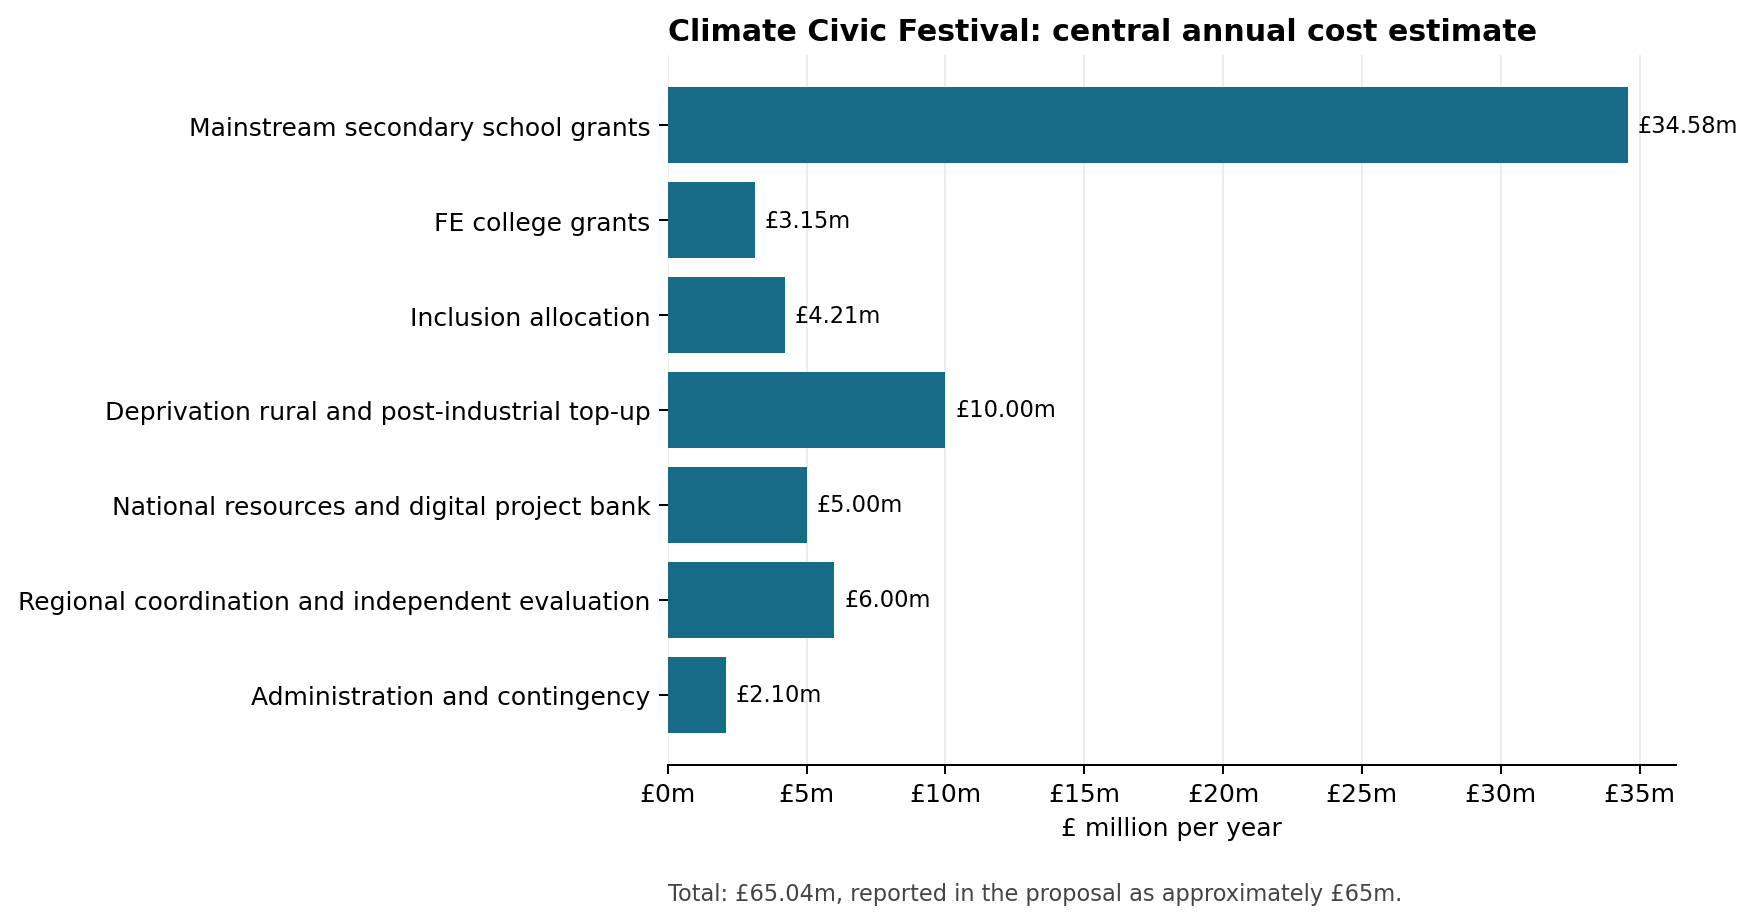
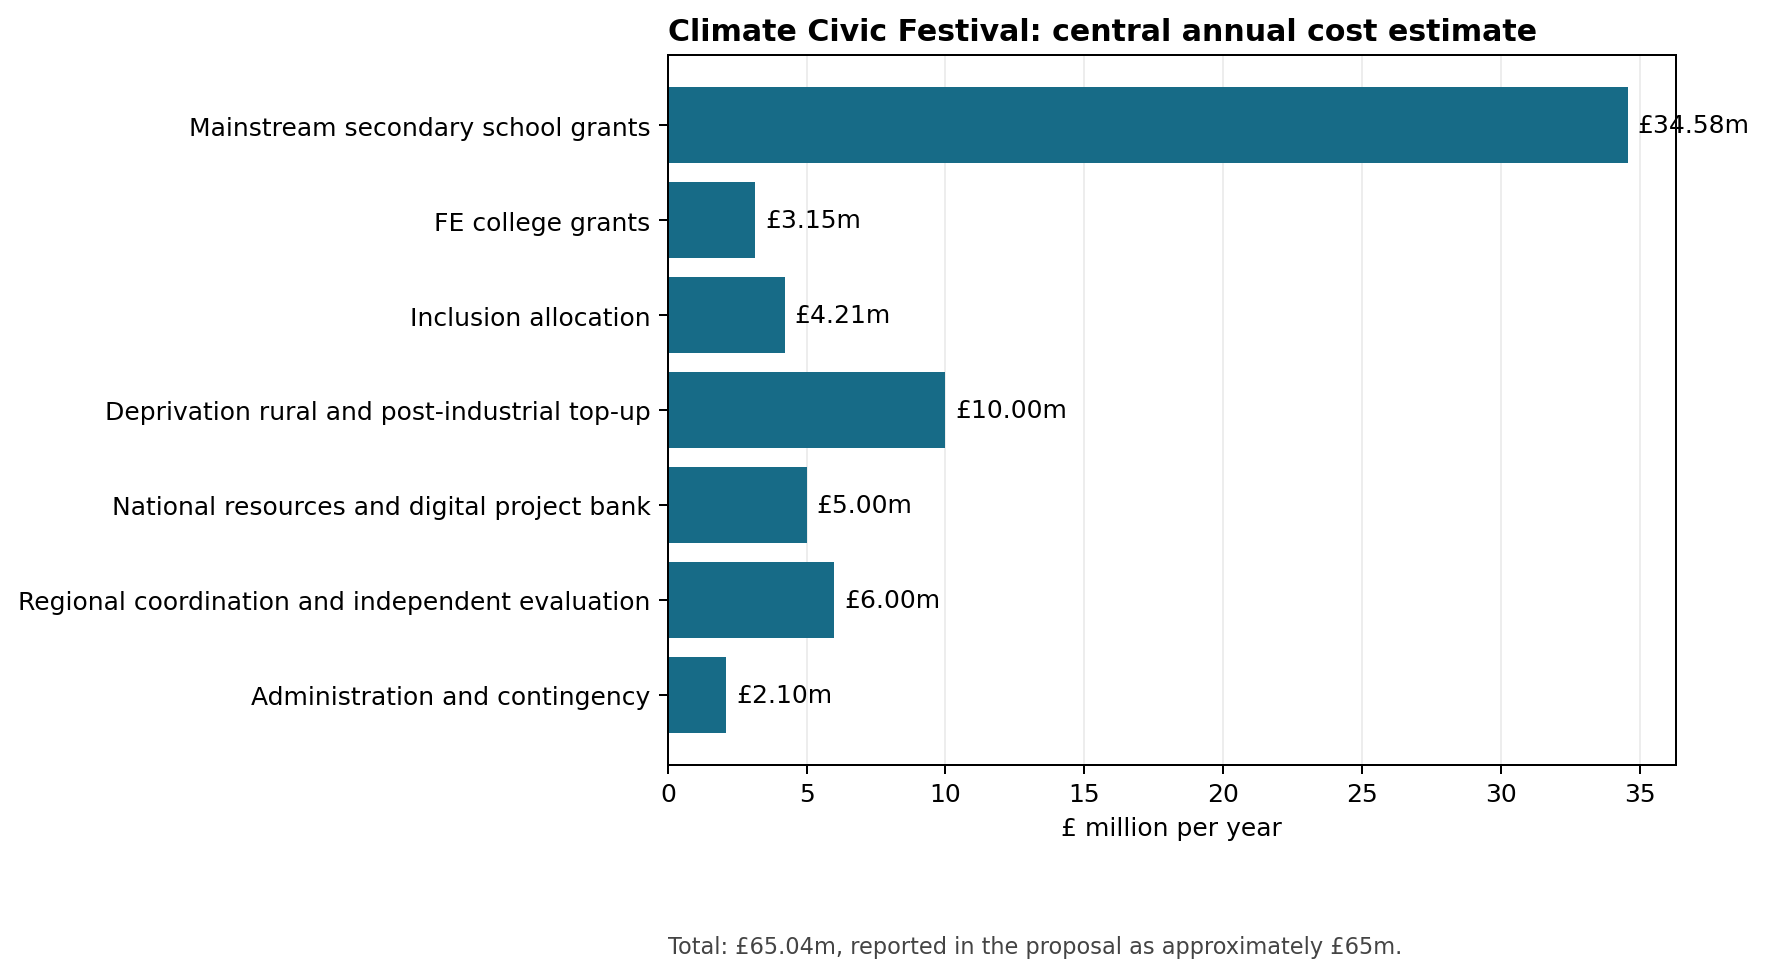
Clarify project summary and simplify costing script

diff --git a/analysis/reproduce_costing.py b/analysis/reproduce_costing.py
@@ -1,88 +1,76 @@
-#!/usr/bin/env python3
-"""Reproduce headline costing figures and generate the cost chart.
-
-Run from any location with:
-    python analysis/reproduce_costing.py
-"""
-
-from __future__ import annotations
-
 import csv
-from pathlib import Path
+import os
+
+import matplotlib.pyplot as plt
 
 
-ROOT = Path(__file__).resolve().parents[1]
-COST_FILE = ROOT / "data" / "national-cost-estimate.csv"
-FUNDING_FILE = ROOT / "data" / "funding-scenarios.csv"
-CHART_FILE = ROOT / "visuals" / "cost-breakdown.png"
+# Find the main project folder from the location of this script.
+project_folder = os.path.dirname(os.path.dirname(os.path.abspath(__file__)))
+cost_file = os.path.join(project_folder, "data", "national-cost-estimate.csv")
+funding_file = os.path.join(project_folder, "data", "funding-scenarios.csv")
+chart_file = os.path.join(project_folder, "visuals", "cost-breakdown.png")
 
 
-def read_csv(path: Path) -> list[dict[str, str]]:
-    with path.open(encoding="utf-8", newline="") as handle:
-        return list(csv.DictReader(handle))
+# Read the annual cost estimates.
+cost_labels = []
+costs_in_millions = []
+total_cost = 0
+
+with open(cost_file, encoding="utf-8") as file:
+    rows = csv.DictReader(file)
+
+    for row in rows:
+        cost = int(row["annual_cost_gbp"])
+        cost_labels.append(row["cost_item"])
+        costs_in_millions.append(cost / 1000000)
+        total_cost = total_cost + cost
+
+print("Central annual cost estimate: £" + format(total_cost / 1000000, ".2f") + " million")
+print("Rounded policy estimate: £" + format(total_cost / 1000000, ".0f") + " million")
 
 
-def main() -> None:
-    costs = read_csv(COST_FILE)
-    scenarios = read_csv(FUNDING_FILE)
+# Check the three UK ETS funding calculations.
+with open(funding_file, encoding="utf-8") as file:
+    rows = csv.DictReader(file)
 
-    total = sum(int(row["annual_cost_gbp"]) for row in costs)
-    print(f"Central annual cost estimate: £{total / 1_000_000:,.2f} million")
-    print(f"Rounded policy estimate: £{total / 1_000_000:,.0f} million")
-
-    for row in scenarios:
+    for row in rows:
         revenue = int(row["revenue_base_gbp"])
         rate = float(row["allocation_rate"])
-        recorded = int(row["calculated_allocation_gbp"])
-        calculated = round(revenue * rate)
-        if calculated != recorded:
-            raise ValueError(f"Funding calculation mismatch for {row['scenario']}")
-        print(f"{row['scenario']}: £{calculated / 1_000_000:,.2f} million")
+        expected_result = int(row["calculated_allocation_gbp"])
+        result = round(revenue * rate)
 
-    try:
-        import matplotlib.pyplot as plt
-        from matplotlib.ticker import FuncFormatter
-    except ImportError as exc:
-        raise SystemExit(
-            "Chart generation requires matplotlib. Install it with "
-            "'python -m pip install matplotlib'."
-        ) from exc
+        if result != expected_result:
+            raise ValueError("The funding calculation does not match the CSV file.")
 
-    labels = [row["cost_item"] for row in costs]
-    values = [int(row["annual_cost_gbp"]) / 1_000_000 for row in costs]
+        print(row["scenario"] + ": £" + format(result / 1000000, ".2f") + " million")
 
-    fig, ax = plt.subplots(figsize=(10, 5.8))
-    bars = ax.barh(labels[::-1], values[::-1], color="#176B87")
-    ax.set_title("Climate Civic Festival: central annual cost estimate", loc="left", weight="bold")
-    ax.set_xlabel("£ million per year")
-    ax.xaxis.set_major_formatter(FuncFormatter(lambda value, _: f"£{value:g}m"))
-    ax.grid(axis="x", alpha=0.22)
-    ax.set_axisbelow(True)
-    ax.spines[["top", "right", "left"]].set_visible(False)
 
-    for bar, value in zip(bars, values[::-1]):
-        ax.text(
-            bar.get_width() + 0.35,
-            bar.get_y() + bar.get_height() / 2,
-            f"£{value:.2f}m",
-            va="center",
-            fontsize=9,
-        )
+# Create a horizontal bar chart of the programme costs.
+plt.figure(figsize=(10, 5.8))
+bars = plt.barh(cost_labels, costs_in_millions, color="#176B87")
+plt.gca().invert_yaxis()
+plt.title("Climate Civic Festival: central annual cost estimate", loc="left", fontweight="bold")
+plt.xlabel("£ million per year")
+plt.grid(axis="x", alpha=0.22)
+plt.gca().set_axisbelow(True)
 
-    ax.text(
-        0,
-        -0.19,
-        f"Total: £{total / 1_000_000:.2f}m, reported in the proposal as approximately £65m.",
-        transform=ax.transAxes,
-        fontsize=9,
-        color="#444444",
+for bar, value in zip(bars, costs_in_millions):
+    plt.text(
+        value + 0.35,
+        bar.get_y() + bar.get_height() / 2,
+        "£" + format(value, ".2f") + "m",
+        va="center",
     )
-    fig.subplots_adjust(left=0.40, right=0.96, top=0.88, bottom=0.20)
-    CHART_FILE.parent.mkdir(parents=True, exist_ok=True)
-    fig.savefig(CHART_FILE, dpi=180, bbox_inches="tight", facecolor="white")
-    plt.close(fig)
-    print(f"Chart written to: {CHART_FILE.relative_to(ROOT)}")
 
+plt.figtext(
+    0.40,
+    0.02,
+    "Total: £" + format(total_cost / 1000000, ".2f") + "m, reported in the proposal as approximately £65m.",
+    fontsize=9,
+    color="#444444",
+)
+plt.subplots_adjust(left=0.40, right=0.96, top=0.88, bottom=0.20)
+plt.savefig(chart_file, dpi=180, bbox_inches="tight", facecolor="white")
+plt.close()
 
-if __name__ == "__main__":
-    main()
+print("Chart saved to visuals/cost-breakdown.png")

diff --git a/README.md b/README.md
@@ -2,21 +2,27 @@
 
 An independent post-hackathon public policy project proposing an annual, student-led Climate Civic Festival for secondary-age learners in England.
 
-[Read the full policy proposal](docs/Climate_Civic_Festival_Proposal.pdf)
+**[Read the full 11-page policy proposal](docs/Climate_Civic_Festival_Proposal.pdf)**
 
-![Annual cost estimate](visuals/cost-breakdown.png)
+## One-page summary
 
-## Policy problem
+### The problem
 
-Climate concern remains widespread in the United Kingdom, while support for particular policies can weaken when transition appears costly, unfair or institutionally remote. The proposal treats green backlash as a challenge of civic trust and agency. It asks how education can help future citizens assess evidence, discuss distributional trade-offs and develop locally credible responses.
+Climate concern remains widespread in the United Kingdom, while support for particular policies can weaken when transition appears costly, unfair or institutionally remote. The proposal treats green backlash as a challenge of civic trust and agency. Education can help future citizens assess evidence, discuss distributional trade-offs and develop locally credible responses.
 
-## Proposed intervention
+### The proposal
 
 Schools, further-education colleges and secondary-age inclusion settings would run six short preparation sessions followed by one annual public festival day. Student groups would choose a climate-related project, use evidence, produce a public output and explain its implications for fairness or community benefit.
 
-The design would operate through existing climate-action and enrichment infrastructure. A preregistered cluster-randomised pilot would establish effects, workload and unit costs before national expansion.
+| Element | Central proposal |
+|---|---|
+| Delivery | Existing climate-action and enrichment infrastructure |
+| Participation | Secondary-age students in mainstream, FE and inclusion settings |
+| Annual cost | Approximately £65 million after national rollout |
+| Primary funding | Treasury allocation equal to 2.5% of forecast UK ETS receipts |
+| Evaluation | Preregistered cluster-randomised pilot before national expansion |
 
-## Theory of change
+### Theory of change
 
 ```mermaid
 flowchart TD
@@ -29,15 +35,17 @@ flowchart TD
 
 Existing research supports the component mechanisms. The complete festival remains a proposed intervention whose combined effect requires empirical testing.
 
-## Cost and funding model
+![Annual cost estimate](visuals/cost-breakdown.png)
 
-The central planning estimate is **approximately £65 million per year** after national rollout. The proposed Carbon Market Civic Dividend would allocate Treasury funding equal to **2.5% of forecast UK Emissions Trading Scheme receipts**. A capped allocation from incremental Electricity Generator Levy receipts would support high-need settings and temporary revenue shortfalls.
+## Reproducing the costing
 
-The repository includes machine-readable versions of the proposal's national cost estimate and funding scenarios. A short Python script reproduces the headline totals and generates the cost chart.
+The repository includes the proposal's cost assumptions and UK ETS funding scenarios as CSV files. The accompanying Python script checks the headline calculations and regenerates the chart.
 
 ```bash
 python analysis/reproduce_costing.py
 ```
+
+The script requires Python and `matplotlib`.
 
 ## Repository contents
 
@@ -46,10 +54,10 @@ python analysis/reproduce_costing.py
 | [`docs/Climate_Civic_Festival_Proposal.pdf`](docs/Climate_Civic_Festival_Proposal.pdf) | Full independent policy proposal |
 | [`data/national-cost-estimate.csv`](data/national-cost-estimate.csv) | Annual rollout cost assumptions derived from Table 6 |
 | [`data/funding-scenarios.csv`](data/funding-scenarios.csv) | UK ETS allocation scenarios derived from Table 7 |
-| [`analysis/reproduce_costing.py`](analysis/reproduce_costing.py) | Reproduces totals and regenerates the chart |
+| [`analysis/reproduce_costing.py`](analysis/reproduce_costing.py) | Checks the calculations and regenerates the chart |
 | [`visuals/cost-breakdown.png`](visuals/cost-breakdown.png) | Visual summary of annual programme costs |
 
-## Project status and scope
+## Project status
 
 This is an exploratory undergraduate policy project developed after a collaborative policy hackathon. It represents independent work completed after the event. The proposal synthesises evidence and develops an implementable policy design; it does not report the results of an implemented programme.
 